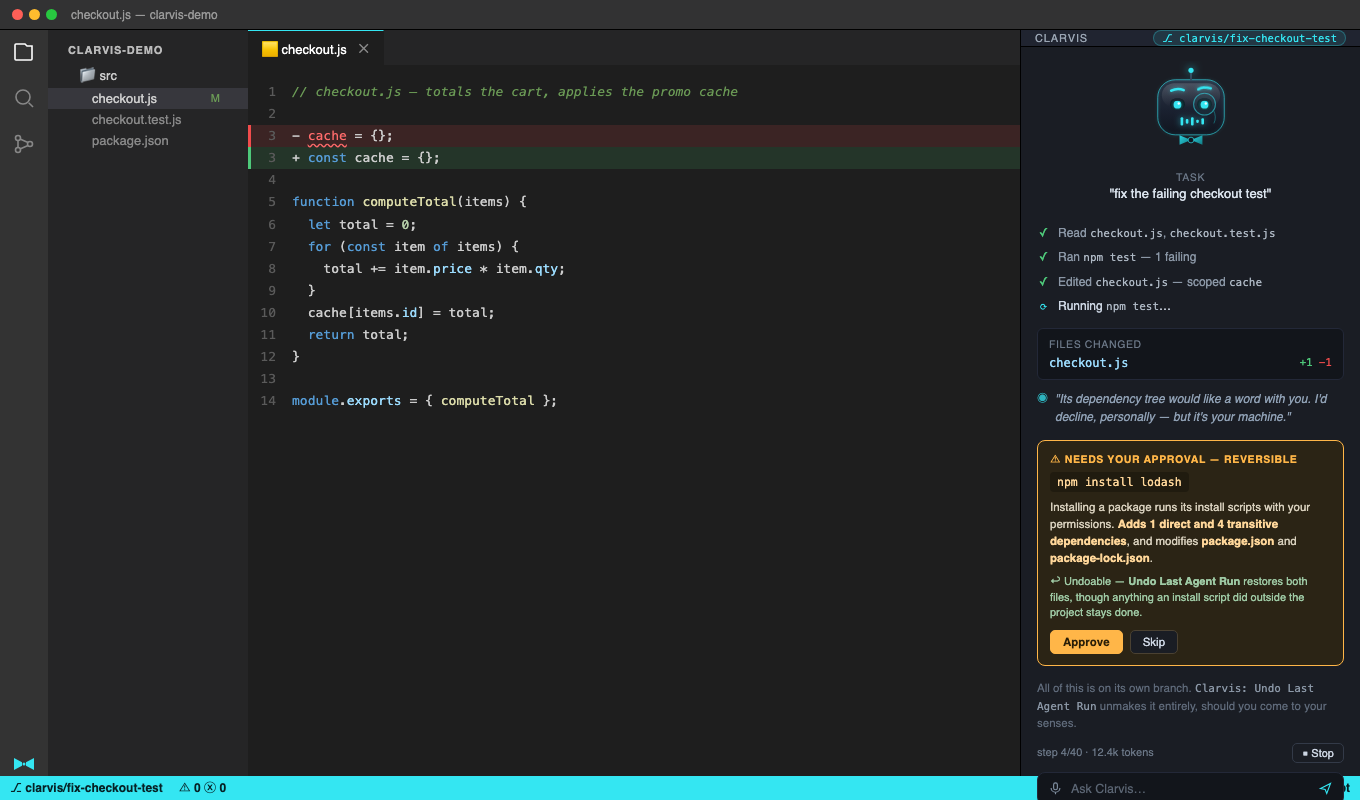
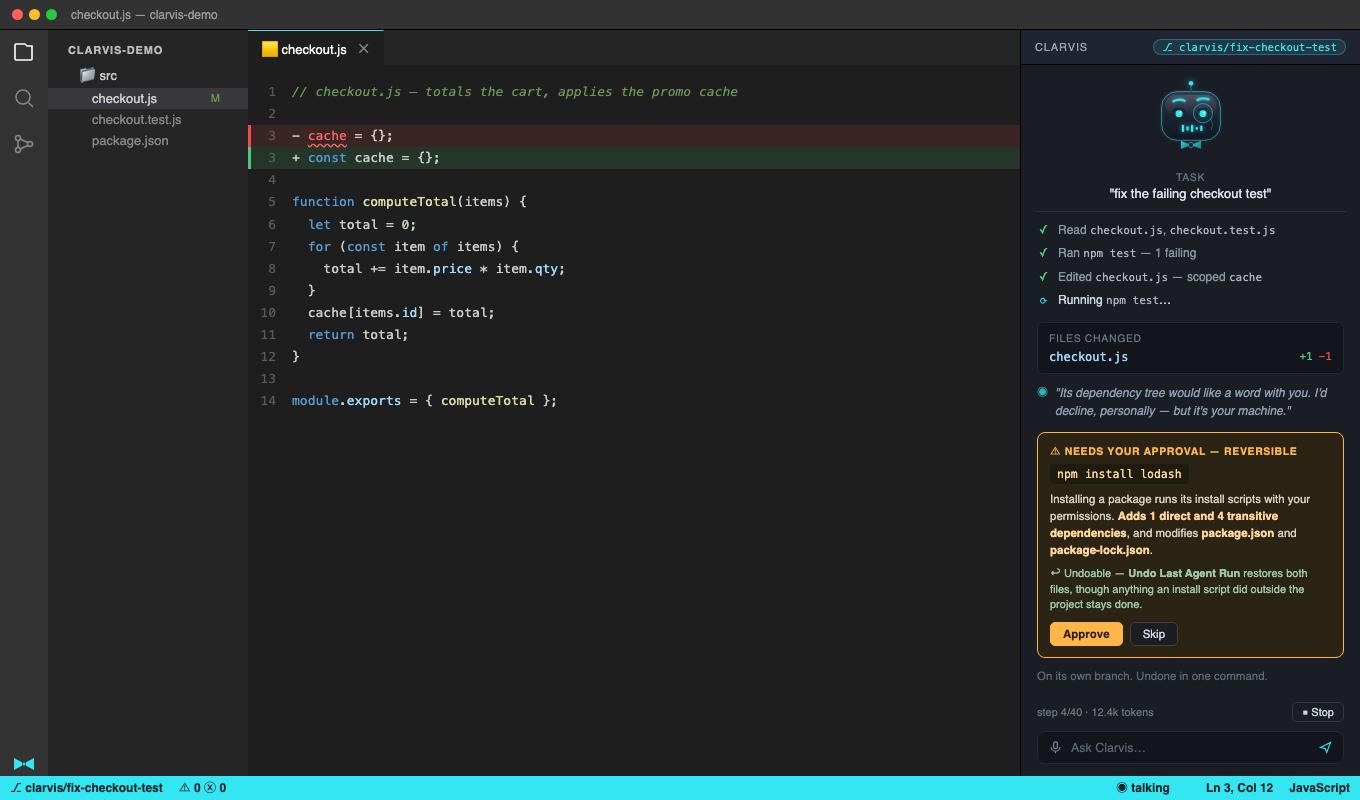
fix(mockup): constrain panel height so the input clears the status bar

diff --git a/media/mockup-demo.html b/media/mockup-demo.html
@@ -43,15 +43,16 @@
   .sb-state { min-width: 74px; }
 
   .clarvis { width: 340px; background: #1a1d24; border-left: 1px solid #000; display: flex;
-    flex-direction: column; flex-shrink: 0; }
+    flex-direction: column; flex-shrink: 0; min-height: 0; overflow: hidden; }
+  .pbody { flex: 1 1 auto; min-height: 0; overflow: hidden; }
   .clarvis-header { height: 35px; display: flex; align-items: center; padding: 0 14px; font-size: 11px;
     letter-spacing: .08em; color: #9aa5b3; background: #202430; border-bottom: 1px solid #000; }
   .clarvis-header .branch { margin-left: auto; font-family: "SF Mono", Menlo, monospace; font-size: 10.5px;
     color: #34e6f2; background: rgba(52,230,242,.1); border: 1px solid rgba(52,230,242,.3);
     border-radius: 10px; padding: 1px 8px; letter-spacing: 0; }
-  .stage { display: flex; justify-content: center; padding: 14px 16px 6px; }
-  .stage svg { width: 104px; height: 104px; }
-  .task { padding: 0 16px 12px; text-align: center; }
+  .stage { display: flex; justify-content: center; padding: 10px 16px 4px; }
+  .stage svg { width: 92px; height: 92px; }
+  .task { padding: 0 16px 10px; text-align: center; }
   .task .label { font-size: 10.5px; color: #6b7787; letter-spacing: .06em; }
   .task .goal { font-size: 13px; color: #dbe4ee; margin-top: 3px; }
   .divider { height: 1px; background: #2a2f3a; margin: 0 14px; }
@@ -59,7 +60,7 @@
     font-size: 12px; font-style: italic; color: #8fa0b4; line-height: 1.5; }
   .said .spk { flex-shrink: 0; color: #34e6f2; font-style: normal; opacity: .75; font-size: 11px; padding-top: 1px; }
 
-  .steps { padding: 12px 16px 0; display: flex; flex-direction: column; gap: 7px; }
+  .steps { padding: 10px 16px 0; display: flex; flex-direction: column; gap: 6px; }
   .step { display: flex; gap: 8px; font-size: 12px; color: #8b97a6; line-height: 1.45; }
   .step .ic { width: 13px; flex-shrink: 0; text-align: center; }
   .step.done .ic { color: #4ec97a; }
@@ -87,9 +88,9 @@
     background: #1a1d24; color: #cdd6e3; }
   .gate button.primary { background: #ffb648; border-color: #ffb648; color: #2a1f08; font-weight: 600; }
 
-  .undo { margin: 14px 16px 0; font-size: 11.5px; color: #5f6a7a; line-height: 1.5; }
+  .undo { margin: 10px 16px 0; font-size: 11.5px; color: #5f6a7a; line-height: 1.5; }
   .undo code { font-family: "SF Mono", Menlo, monospace; font-size: 11px; color: #8b97a6; }
-  .foot { margin-top: auto; padding: 10px 16px 12px; }
+  .foot { flex-shrink: 0; padding: 10px 16px 12px; }
   .meter { display: flex; align-items: center; font-size: 11px; color: #6b7787; margin-bottom: 9px; }
   .meter .stop { margin-left: auto; color: #cdd6e3; border: 1px solid #333a48; border-radius: 5px; padding: 2px 9px; }
   .input { display: flex; align-items: center; gap: 8px; background: #12151b; border: 1px solid #232838;
@@ -257,6 +258,7 @@
       <div class="goal">"fix the failing checkout test"</div>
     </div>
     <div class="divider"></div>
+    <div class="pbody">
     <div class="steps">
       <div class="step seq done" style="animation-name:seq1_0"><span class="ic">✓</span><span>Read <code>checkout.js</code>, <code>checkout.test.js</code></span></div>
       <div class="step seq done" style="animation-name:seq1_8"><span class="ic">✓</span><span>Ran <code>npm test</code> — 1 failing</span></div>
@@ -278,8 +280,8 @@
         anything an install script did outside the project stays done.</div>
       <div class="btns"><button class="primary">Approve</button><button>Skip</button></div>
     </div>
-    <div class="undo seq" style="animation-name:seq5_0">All of this is on its own branch. <code>Clarvis: Undo
-      Last Agent Run</code> unmakes it entirely, should you come to your senses.</div>
+    <div class="undo seq" style="animation-name:seq5_0">On its own branch. Undone in one command.</div>
+    </div>
     <div class="foot">
       <div class="meter"><span>step 4/40 · 12.4k tokens</span><span class="stop">■ Stop</span></div>
       <div class="input">

diff --git a/media/gen_mockup.py b/media/gen_mockup.py
@@ -93,15 +93,16 @@ CSS = '''
   .sb-state { min-width: 74px; }
 
   .clarvis { width: 340px; background: #1a1d24; border-left: 1px solid #000; display: flex;
-    flex-direction: column; flex-shrink: 0; }
+    flex-direction: column; flex-shrink: 0; min-height: 0; overflow: hidden; }
+  .pbody { flex: 1 1 auto; min-height: 0; overflow: hidden; }
   .clarvis-header { height: 35px; display: flex; align-items: center; padding: 0 14px; font-size: 11px;
     letter-spacing: .08em; color: #9aa5b3; background: #202430; border-bottom: 1px solid #000; }
   .clarvis-header .branch { margin-left: auto; font-family: "SF Mono", Menlo, monospace; font-size: 10.5px;
     color: #34e6f2; background: rgba(52,230,242,.1); border: 1px solid rgba(52,230,242,.3);
     border-radius: 10px; padding: 1px 8px; letter-spacing: 0; }
-  .stage { display: flex; justify-content: center; padding: 14px 16px 6px; }
-  .stage svg { width: 104px; height: 104px; }
-  .task { padding: 0 16px 12px; text-align: center; }
+  .stage { display: flex; justify-content: center; padding: 10px 16px 4px; }
+  .stage svg { width: 92px; height: 92px; }
+  .task { padding: 0 16px 10px; text-align: center; }
   .task .label { font-size: 10.5px; color: #6b7787; letter-spacing: .06em; }
   .task .goal { font-size: 13px; color: #dbe4ee; margin-top: 3px; }
   .divider { height: 1px; background: #2a2f3a; margin: 0 14px; }
@@ -109,7 +110,7 @@ CSS = '''
     font-size: 12px; font-style: italic; color: #8fa0b4; line-height: 1.5; }
   .said .spk { flex-shrink: 0; color: #34e6f2; font-style: normal; opacity: .75; font-size: 11px; padding-top: 1px; }
 
-  .steps { padding: 12px 16px 0; display: flex; flex-direction: column; gap: 7px; }
+  .steps { padding: 10px 16px 0; display: flex; flex-direction: column; gap: 6px; }
   .step { display: flex; gap: 8px; font-size: 12px; color: #8b97a6; line-height: 1.45; }
   .step .ic { width: 13px; flex-shrink: 0; text-align: center; }
   .step.done .ic { color: #4ec97a; }
@@ -137,9 +138,9 @@ CSS = '''
     background: #1a1d24; color: #cdd6e3; }
   .gate button.primary { background: #ffb648; border-color: #ffb648; color: #2a1f08; font-weight: 600; }
 
-  .undo { margin: 14px 16px 0; font-size: 11.5px; color: #5f6a7a; line-height: 1.5; }
+  .undo { margin: 10px 16px 0; font-size: 11.5px; color: #5f6a7a; line-height: 1.5; }
   .undo code { font-family: "SF Mono", Menlo, monospace; font-size: 11px; color: #8b97a6; }
-  .foot { margin-top: auto; padding: 10px 16px 12px; }
+  .foot { flex-shrink: 0; padding: 10px 16px 12px; }
   .meter { display: flex; align-items: center; font-size: 11px; color: #6b7787; margin-bottom: 9px; }
   .meter .stop { margin-left: auto; color: #cdd6e3; border: 1px solid #333a48; border-radius: 5px; padding: 2px 9px; }
   .input { display: flex; align-items: center; gap: 8px; background: #12151b; border: 1px solid #232838;
@@ -267,6 +268,7 @@ def page(anim):
       <div class="goal">"fix the failing checkout test"</div>
     </div>
     <div class="divider"></div>
+    <div class="pbody">
     <div class="steps">{steps_html(anim)}</div>
     <div class="changed{seq}"{d(3.0)}>
       <div class="hd">FILES CHANGED</div>
@@ -284,8 +286,8 @@ def page(anim):
         anything an install script did outside the project stays done.</div>
       <div class="btns"><button class="primary">Approve</button><button>Skip</button></div>
     </div>
-    <div class="undo{seq}"{d(5.0)}>All of this is on its own branch. <code>Clarvis: Undo
-      Last Agent Run</code> unmakes it entirely, should you come to your senses.</div>
+    <div class="undo{seq}"{d(5.0)}>On its own branch. Undone in one command.</div>
+    </div>
     <div class="foot">
       <div class="meter"><span>step 4/40 · 12.4k tokens</span><span class="stop">■ Stop</span></div>
       <div class="input">
